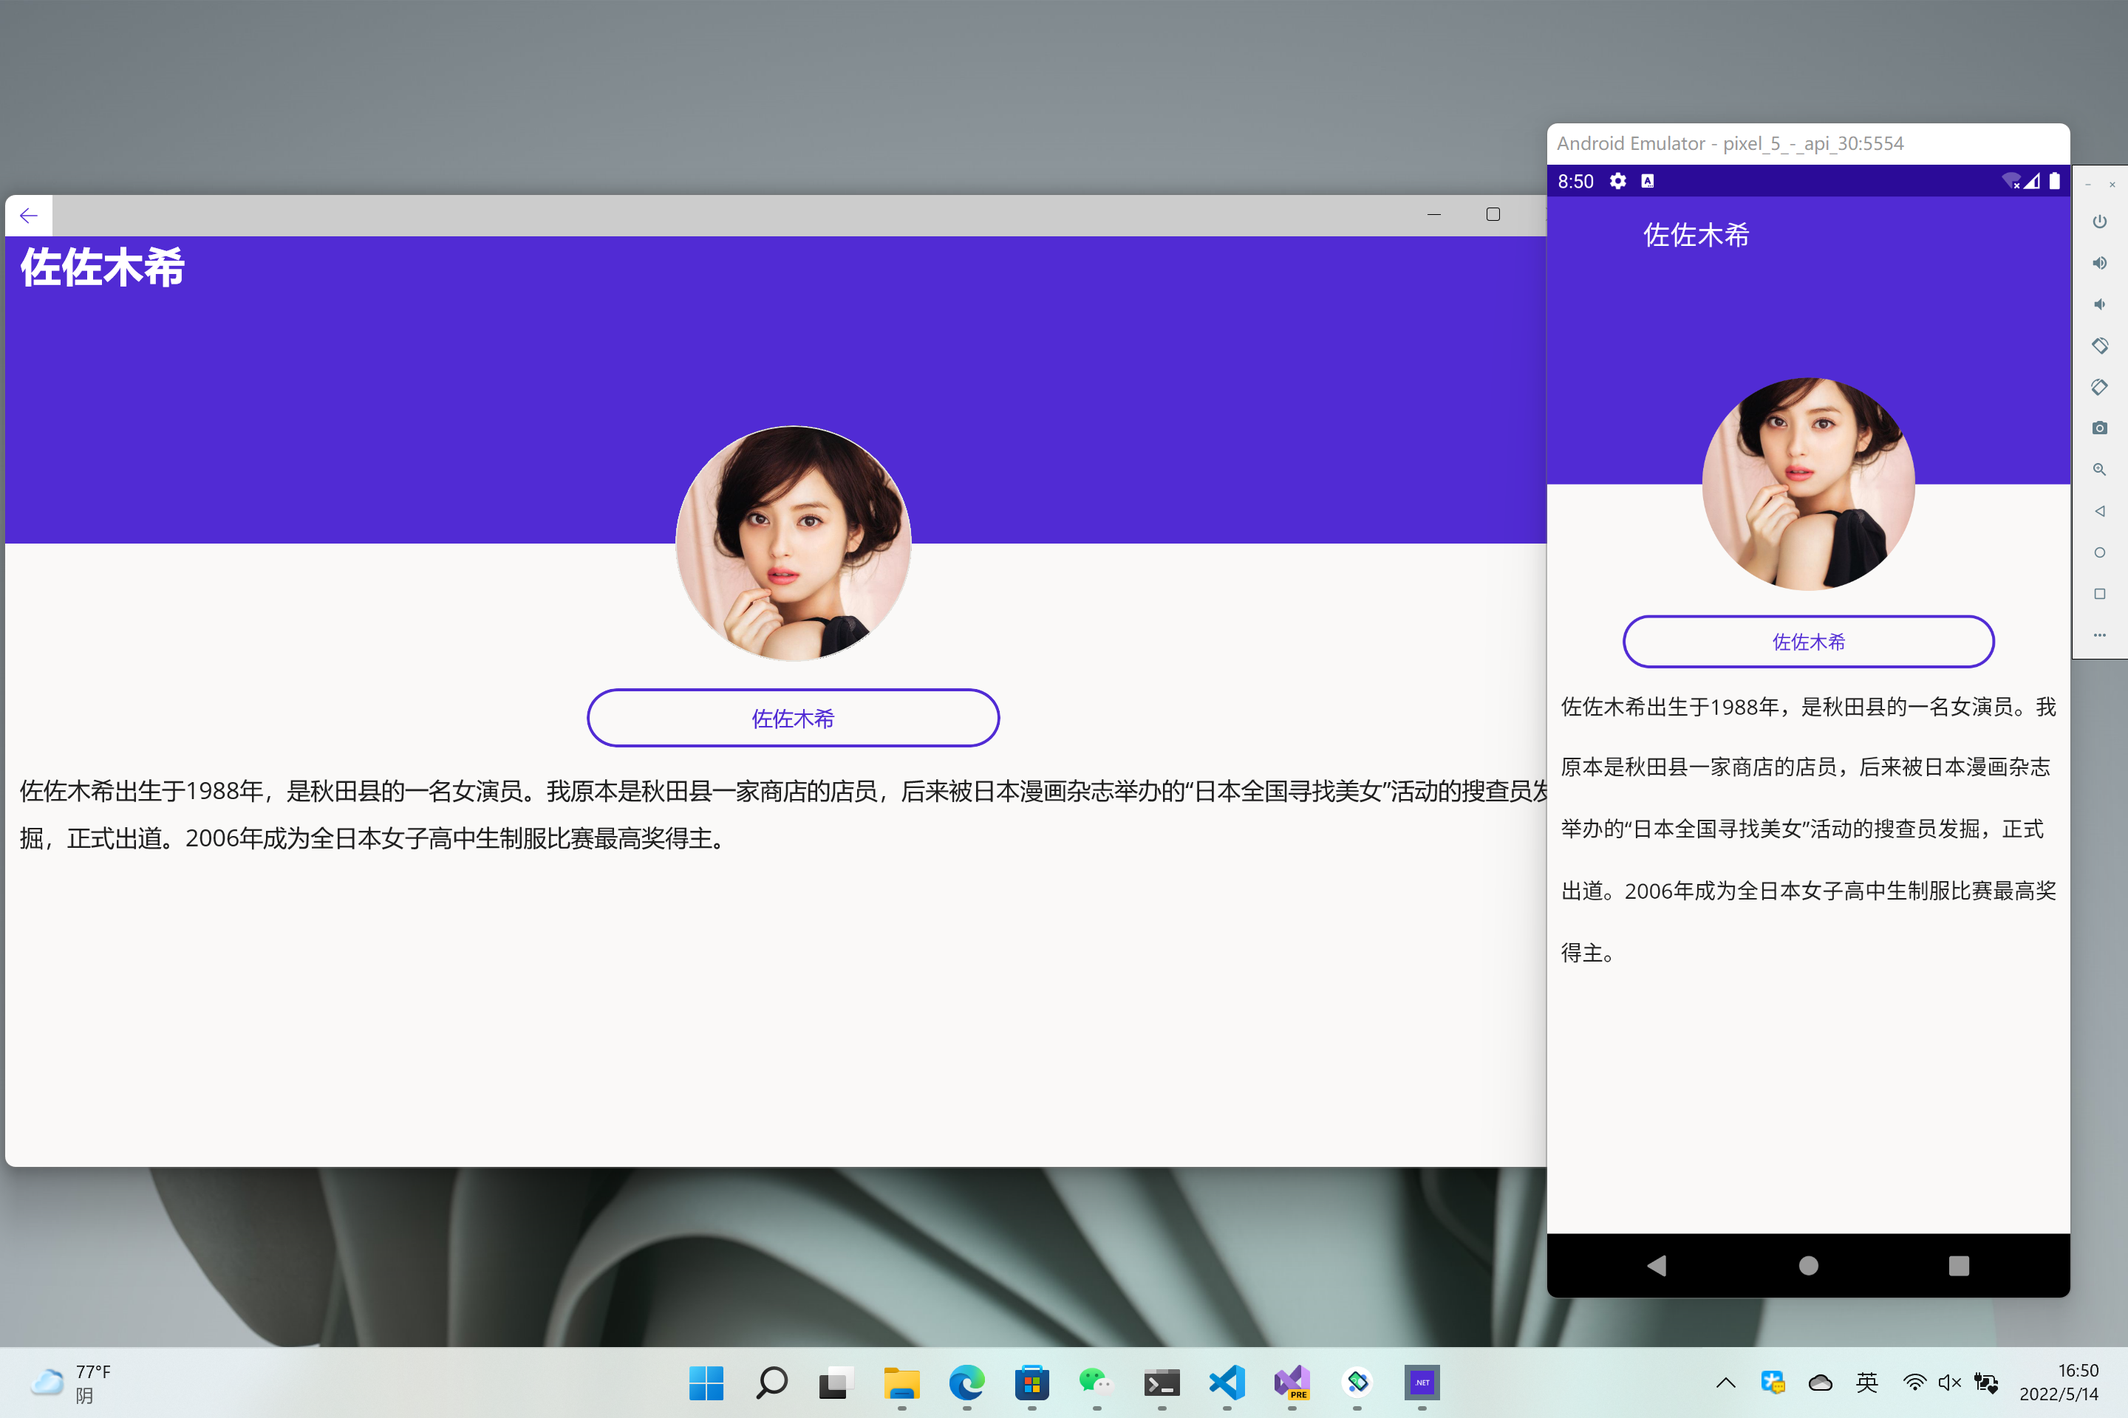
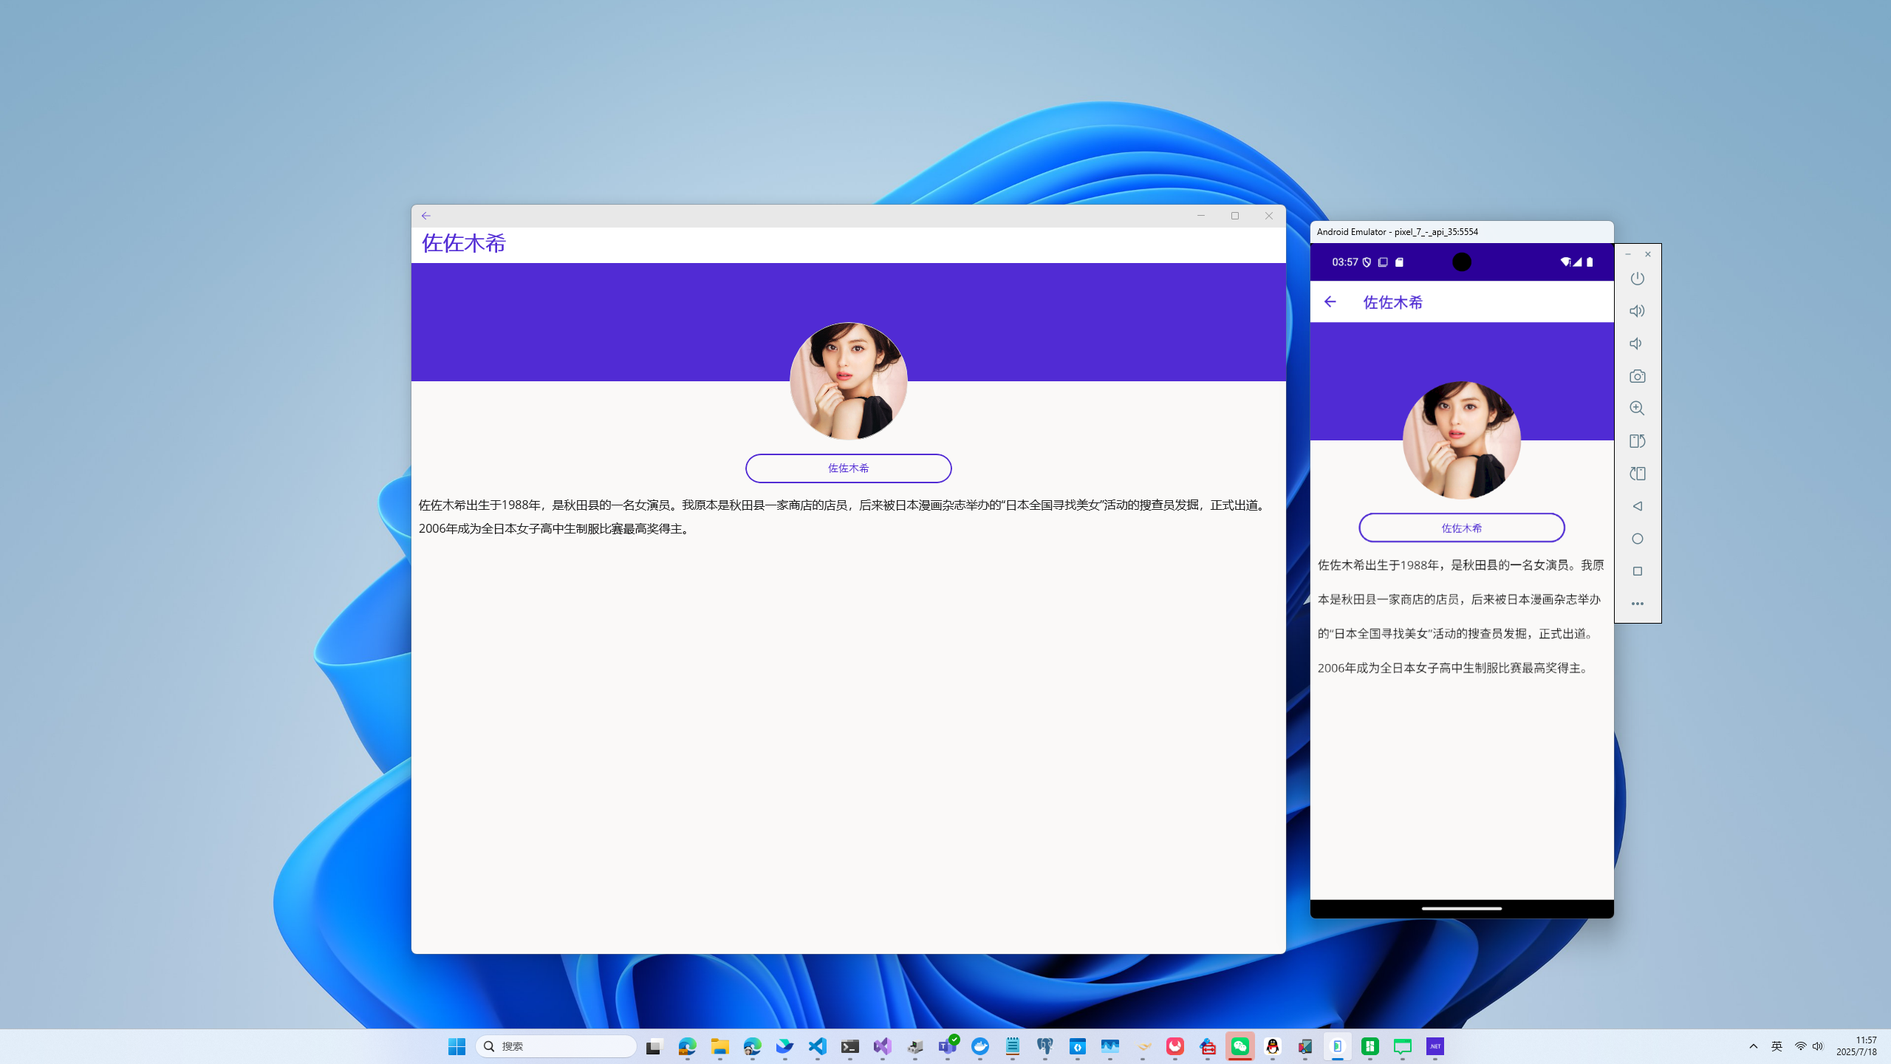
update ActressLibrary main page

diff --git a/src/ActressLibrary/MainPage.xaml b/src/ActressLibrary/MainPage.xaml
@@ -1,4 +1,4 @@
-<?xml version="1.0" encoding="utf-8" ?>
+<?xml version="1.0" encoding="utf-8" ?>
 <ContentPage
     x:Class="ActressLibrary.MainPage"
     xmlns="http://schemas.microsoft.com/dotnet/2021/maui"
@@ -8,59 +8,136 @@
     xmlns:viewmodels="clr-namespace:ActressLibrary.ViewModels"
     xmlns:res="clr-namespace:ActressLibrary.Resources.Strings"
     x:DataType="viewmodels:MainViewModel"
-    ios:Page.UseSafeArea="True">
-    <Grid
-        BackgroundColor="{AppThemeBinding Light={StaticResource LightBackground},
-                                          Dark={StaticResource DarkBackground}}"
-        ColumnDefinitions="*,*"
-        ColumnSpacing="5"
-        RowDefinitions="*,Auto"
-        RowSpacing="0">
-        <RefreshView
-            Grid.ColumnSpan="2"
-            Command="{Binding LoadActorsCommand}"
-            IsRefreshing="{Binding IsRefreshing}">
-            <CollectionView
-                BackgroundColor="Transparent"
-                ItemsSource="{Binding Infos}"
-                SelectionMode="None">
+    ios:Page.UseSafeArea="True"
+    Title="演员库">
+    
+    <Grid BackgroundColor="{AppThemeBinding Light={StaticResource LightBackground}, Dark={StaticResource DarkBackground}}">
+        <Grid.RowDefinitions>
+            <RowDefinition Height="Auto" />
+            <RowDefinition Height="*" />
+            <RowDefinition Height="Auto" />
+        </Grid.RowDefinitions>
+
+        <!-- 现代化标题栏 -->
+        <Border Grid.Row="0" 
+                BackgroundColor="{AppThemeBinding Light={StaticResource Primary}, Dark={StaticResource PrimaryDark}}"
+                Padding="20,15">
+            <Border.StrokeShape>
+                <RoundRectangle CornerRadius="0" />
+            </Border.StrokeShape>
+            <Grid>
+                <Grid.ColumnDefinitions>
+                    <ColumnDefinition Width="*" />
+                    <ColumnDefinition Width="Auto" />
+                </Grid.ColumnDefinitions>
+                
+                <Label Text="演员库" 
+                       FontSize="24" 
+                       FontAttributes="Bold"
+                       TextColor="White"
+                       VerticalOptions="Center" />
+                
+                <Label Grid.Column="1" 
+                       Text="{Binding Infos.Count, StringFormat='共 {0} 项'}"
+                       FontSize="14"
+                       TextColor="White"
+                       VerticalOptions="Center" />
+            </Grid>
+        </Border>
+
+        <!-- 主要内容区域 -->
+        <RefreshView Grid.Row="1"
+                     Command="{Binding LoadActorsCommand}"
+                     IsRefreshing="{Binding IsRefreshing}"
+                     RefreshColor="{StaticResource Primary}">
+            
+            <CollectionView ItemsSource="{Binding Infos}"
+                            SelectionMode="None"
+                            BackgroundColor="Transparent">
+                
+                <!-- 空状态显示 -->
                 <CollectionView.EmptyView>
-                    <StackLayout Padding="100">
-                        <Image
-                            Source="nodata.png"/>
-                    </StackLayout>
+                    <Grid Padding="40">
+                        <StackLayout VerticalOptions="Center"
+                                     HorizontalOptions="Center"
+                                     Spacing="20">
+                            <Image Source="nodata.png" 
+                                   HeightRequest="120"
+                                   WidthRequest="120"
+                                   Aspect="AspectFit" />
+                            <Label Text="暂无数据" 
+                                   FontSize="18"
+                                   TextColor="{AppThemeBinding Light={StaticResource Gray600}, Dark={StaticResource Gray200}}"
+                                   HorizontalOptions="Center" />
+                            <Label Text="点击下方按钮加载数据" 
+                                   FontSize="14"
+                                   TextColor="{AppThemeBinding Light={StaticResource Gray500}, Dark={StaticResource Gray300}}"
+                                   HorizontalOptions="Center" />
+                        </StackLayout>
+                    </Grid>
                 </CollectionView.EmptyView>
-                <CollectionView.ItemsLayout>
-                    <GridItemsLayout Orientation="Vertical" />
-                </CollectionView.ItemsLayout>
+
+                <!-- 现代化列表项模板 -->
                 <CollectionView.ItemTemplate>
                     <DataTemplate x:DataType="model:PersonalInfoDto">
-                        <Grid Padding="10">
-                            <Border HeightRequest="125" Style="{StaticResource CardView}">
+                        <Grid Padding="16,8">
+                            <Border BackgroundColor="{AppThemeBinding Light=White, Dark={StaticResource Gray900}}"
+                                    Stroke="{AppThemeBinding Light={StaticResource Gray200}, Dark={StaticResource Gray700}}"
+                                    StrokeThickness="1"
+                                    Padding="0">
+                                <Border.StrokeShape>
+                                    <RoundRectangle CornerRadius="12" />
+                                </Border.StrokeShape>
+                                
+                                <!-- 卡片阴影效果 -->
+                                <Border.Shadow>
+                                    <Shadow Brush="{AppThemeBinding Light={StaticResource Gray300}, Dark={StaticResource Gray800}}"
+                                            Opacity="0.3"
+                                            Radius="8"
+                                            Offset="0,2" />
+                                </Border.Shadow>
+                                
                                 <Border.GestureRecognizers>
                                     <TapGestureRecognizer Tapped="TapGestureRecognizer_Tapped" />
                                 </Border.GestureRecognizers>
-                                <Grid Padding="0" ColumnDefinitions="125,*">
-                                    <Image
-                                        Aspect="AspectFill"
-                                        HeightRequest="125"
-                                        Source="{Binding ImageSource}"
-                                        WidthRequest="125" />
-                                    <StackLayout
-                                        Grid.Column="1"
-                                        Padding="10"
-                                        VerticalOptions="Center">
-                                        <Label
-                                            Margin="4"
-                                            Style="{StaticResource LargeLabel}"
-                                            Text="{Binding Name}" />
-                                        <Label
-                                            Margin="4"
-                                            LineBreakMode="TailTruncation"
-                                            LineHeight="2"
-                                            MaxLines="2"
-                                            Style="{StaticResource MediumLabel}"
-                                            Text="{Binding Desc}" />
+                                
+                                <Grid Padding="16" ColumnDefinitions="80,*" ColumnSpacing="16">
+                                    <!-- 头像区域 -->
+                                    <Border Grid.Column="0" 
+                                            BackgroundColor="{AppThemeBinding Light={StaticResource Gray100}, Dark={StaticResource Gray800}}"
+                                            HeightRequest="80"
+                                            WidthRequest="80">
+                                        <Border.StrokeShape>
+                                            <RoundRectangle CornerRadius="8" />
+                                        </Border.StrokeShape>
+                                        
+                                        <Image Source="{Binding ImageSource}"
+                                               Aspect="AspectFill"
+                                               HeightRequest="80"
+                                               WidthRequest="80" />
+                                    </Border>
+                                    
+                                    <!-- 信息区域 -->
+                                    <StackLayout Grid.Column="1" 
+                                                 VerticalOptions="Center"
+                                                 Spacing="4">
+                                        <Label Text="{Binding Name}"
+                                               FontSize="18"
+                                               FontAttributes="Bold"
+                                               TextColor="{AppThemeBinding Light={StaticResource Gray900}, Dark={StaticResource Gray100}}"
+                                               LineBreakMode="TailTruncation" />
+                                        
+                                        <Label Text="{Binding Desc}"
+                                               FontSize="14"
+                                               TextColor="{AppThemeBinding Light={StaticResource Gray600}, Dark={StaticResource Gray400}}"
+                                               LineBreakMode="TailTruncation"
+                                               MaxLines="2" />
+                                        
+                                        <Label Text="{Binding Hobbies}"
+                                               FontSize="12"
+                                               TextColor="{AppThemeBinding Light={StaticResource Gray500}, Dark={StaticResource Gray500}}"
+                                               LineBreakMode="TailTruncation"
+                                               MaxLines="1" />
                                     </StackLayout>
                                 </Grid>
                             </Border>
@@ -70,20 +147,44 @@
             </CollectionView>
         </RefreshView>
 
-        <Button
-            Grid.Row="1"
-            Grid.ColumnSpan="2"
-            Margin="8"
-            Command="{Binding LoadActorsCommand}"
-            IsEnabled="{Binding IsNotBusy}"
-            Style="{StaticResource ButtonOutline}"
-            Text="{x:Static res:AppResource.Load_Actors}" />
+        <!-- 现代化底部操作栏 -->
+        <Grid Grid.Row="2" 
+              BackgroundColor="{AppThemeBinding Light=White, Dark={StaticResource Gray900}}"
+              Padding="16,12">
+            <Grid.Shadow>
+                <Shadow Brush="{AppThemeBinding Light={StaticResource Gray300}, Dark={StaticResource Gray800}}"
+                        Opacity="0.3"
+                        Radius="8"
+                        Offset="0,-2" />
+            </Grid.Shadow>
+            
+            <Button Text="{x:Static res:AppResource.Load_Actors}"
+                    Command="{Binding LoadActorsCommand}"
+                    IsEnabled="{Binding IsNotBusy}"
+                    BackgroundColor="{StaticResource Primary}"
+                    TextColor="White"
+                    FontSize="16"
+                    FontAttributes="Bold"
+                    CornerRadius="8"
+                    HeightRequest="48" />
+        </Grid>
 
-
-        <ActivityIndicator
-            Grid.RowSpan="2"
-            Grid.ColumnSpan="2"
-            IsRunning="{Binding IsBusy}"
-            IsVisible="{Binding IsBusy}"/>
+        <!-- 现代化加载指示器 -->
+        <Grid Grid.RowSpan="3"
+              IsVisible="{Binding IsBusy}"
+              BackgroundColor="{AppThemeBinding Light=#80FFFFFF, Dark=#80000000}">
+            <StackLayout VerticalOptions="Center"
+                         HorizontalOptions="Center"
+                         Spacing="16">
+                <ActivityIndicator IsRunning="{Binding IsBusy}"
+                                   Color="{StaticResource Primary}"
+                                   WidthRequest="50"
+                                   HeightRequest="50" />
+                <Label Text="正在加载数据..."
+                       FontSize="16"
+                       TextColor="{AppThemeBinding Light={StaticResource Gray700}, Dark={StaticResource Gray300}}"
+                       HorizontalOptions="Center" />
+            </StackLayout>
+        </Grid>
     </Grid>
 </ContentPage>

diff --git a/src/ActressLibrary/Resources/Styles.xaml b/src/ActressLibrary/Resources/Styles.xaml
@@ -7,6 +7,7 @@
 
 
     <Color x:Key="Primary">#512BD4</Color>
+    <Color x:Key="PrimaryDark">#2B0B98</Color>
     <Color x:Key="Light">#DFD8F7</Color>
     <Color x:Key="Dark">#2B0B98</Color>
     <Color x:Key="White">White</Color>
@@ -14,6 +15,17 @@
     <Color x:Key="LightGray">#E5E5E1</Color>
     <Color x:Key="MidGray">#969696</Color>
     <Color x:Key="DarkGray">#505050</Color>
+    
+    <!-- 新增的颜色 -->
+    <Color x:Key="Gray100">#F5F5F5</Color>
+    <Color x:Key="Gray200">#E0E0E0</Color>
+    <Color x:Key="Gray300">#BDBDBD</Color>
+    <Color x:Key="Gray400">#9E9E9E</Color>
+    <Color x:Key="Gray500">#757575</Color>
+    <Color x:Key="Gray600">#616161</Color>
+    <Color x:Key="Gray700">#424242</Color>
+    <Color x:Key="Gray800">#303030</Color>
+    <Color x:Key="Gray900">#212121</Color>
     <SolidColorBrush x:Key="PrimaryBrush" Color="{StaticResource Primary}" />
     <SolidColorBrush x:Key="LightBrush" Color="{StaticResource Light}" />
     <SolidColorBrush x:Key="DarkBrush" Color="{StaticResource Dark}" />

diff --git a/src/ActressLibrary/ViewModels/MainViewModel.cs b/src/ActressLibrary/ViewModels/MainViewModel.cs
@@ -32,6 +32,8 @@ namespace ActressLibrary.ViewModels
 
                 var ret = await _repository.GetListAsync(1, 30);
 
+                Debug.WriteLine($"从Repository获取到 {ret?.Count ?? 0} 条数据");
+
                 var list = new List<PersonalInfoDto>();
 
                 if (ret != null)
@@ -52,17 +54,35 @@ namespace ActressLibrary.ViewModels
                         {
                             temp.AvatarBitmap = avatarBytes;
                             temp.ImageSource = ImageHelper.CreateImageSource(avatarBytes);
+                            Debug.WriteLine($"为 {item.Name} 创建了ImageSource，字节数组长度: {avatarBytes.Length}");
+                        }
+                        else
+                        {
+                            Debug.WriteLine($"警告: {item.Name} 没有头像数据");
                         }
 
                         list.Add(temp);
                     }
                 }
 
-                if (Infos.Count != 0)
-                    Infos.Clear();
+                Debug.WriteLine($"准备添加 {list.Count} 条数据到UI集合");
 
-                foreach (var info in list)
-                    Infos.Add(info);
+                // 确保在主线程上更新UI
+                await MainThread.InvokeOnMainThreadAsync(() =>
+                {
+                    // 方法1: 逐个添加到现有集合
+                    Infos.Clear();
+                    foreach (var info in list)
+                        Infos.Add(info);
+                    
+                    Debug.WriteLine($"UI集合已更新，当前数量: {Infos.Count}");
+                    
+                    // 强制通知属性更改（为了解决Windows平台的潜在问题）
+                    OnPropertyChanged(nameof(Infos));
+                    
+                    // 方法2: 如果方法1不行，可以尝试创建新的ObservableCollection
+                    // Infos = new ObservableCollection<PersonalInfoDto>(list);
+                });
 
             }
             catch (Exception ex)
@@ -78,18 +98,7 @@ namespace ActressLibrary.ViewModels
 
         }
 
-        private ObservableCollection<PersonalInfoDto> infos = new();
-
-        public ObservableCollection<PersonalInfoDto> Infos
-        {
-            get
-            {
-                return infos;
-            }
-            set
-            {
-                SetProperty(ref infos, value);
-            }
-        }
+        [ObservableProperty]
+        ObservableCollection<PersonalInfoDto> infos = new();
     }
 }

diff --git a/src/ActressLibrary/MainPage.xaml.cs b/src/ActressLibrary/MainPage.xaml.cs
@@ -51,6 +51,32 @@ public partial class MainPage : ContentPage
 
             File.Create(firstPath);
         }
+
+        // 添加测试数据验证UI绑定
+        await Task.Delay(500); // 确保UI完全加载
+        
+        System.Diagnostics.Debug.WriteLine($"MainPage OnAppearing: ViewModel is null? {ViewModel == null}");
+        System.Diagnostics.Debug.WriteLine($"MainPage OnAppearing: BindingContext is null? {BindingContext == null}");
+        System.Diagnostics.Debug.WriteLine($"MainPage OnAppearing: Infos count: {ViewModel?.Infos?.Count ?? -1}");
+        
+        // 为了测试UI绑定，添加一些测试数据
+        if (ViewModel != null && ViewModel.Infos.Count == 0)
+        {
+            await MainThread.InvokeOnMainThreadAsync(() =>
+            {
+                // 添加测试数据
+                var testItem = new PersonalInfoDto
+                {
+                    Name = "测试用户",
+                    Desc = "这是一个测试用户，用于验证UI绑定是否正常工作",
+                    Hobbies = "测试爱好",
+                    Tags = new List<string> { "测试", "UI" }
+                };
+                
+                ViewModel.Infos.Add(testItem);
+                System.Diagnostics.Debug.WriteLine($"添加了测试数据，当前Infos数量: {ViewModel.Infos.Count}");
+            });
+        }
     }
 
     private async void TapGestureRecognizer_Tapped(object sender, EventArgs e)

diff --git a/src/ActressLibrary/Helpers/ImageHelper.cs b/src/ActressLibrary/Helpers/ImageHelper.cs
@@ -16,9 +16,21 @@ namespace ActressLibrary.Helpers
         public static ImageSource CreateImageSource(byte[] imageBytes)
         {
             if (imageBytes == null || imageBytes.Length == 0)
+            {
+                System.Diagnostics.Debug.WriteLine("ImageHelper: 图片字节数组为空");
                 return null;
+            }
 
-            return ImageSource.FromStream(() => new MemoryStream(imageBytes));
+            try
+            {
+                System.Diagnostics.Debug.WriteLine($"ImageHelper: 创建ImageSource，字节数组长度: {imageBytes.Length}");
+                return ImageSource.FromStream(() => new MemoryStream(imageBytes));
+            }
+            catch (Exception ex)
+            {
+                System.Diagnostics.Debug.WriteLine($"ImageHelper: 创建ImageSource失败: {ex.Message}");
+                return null;
+            }
         }
 
         /// <summary>
